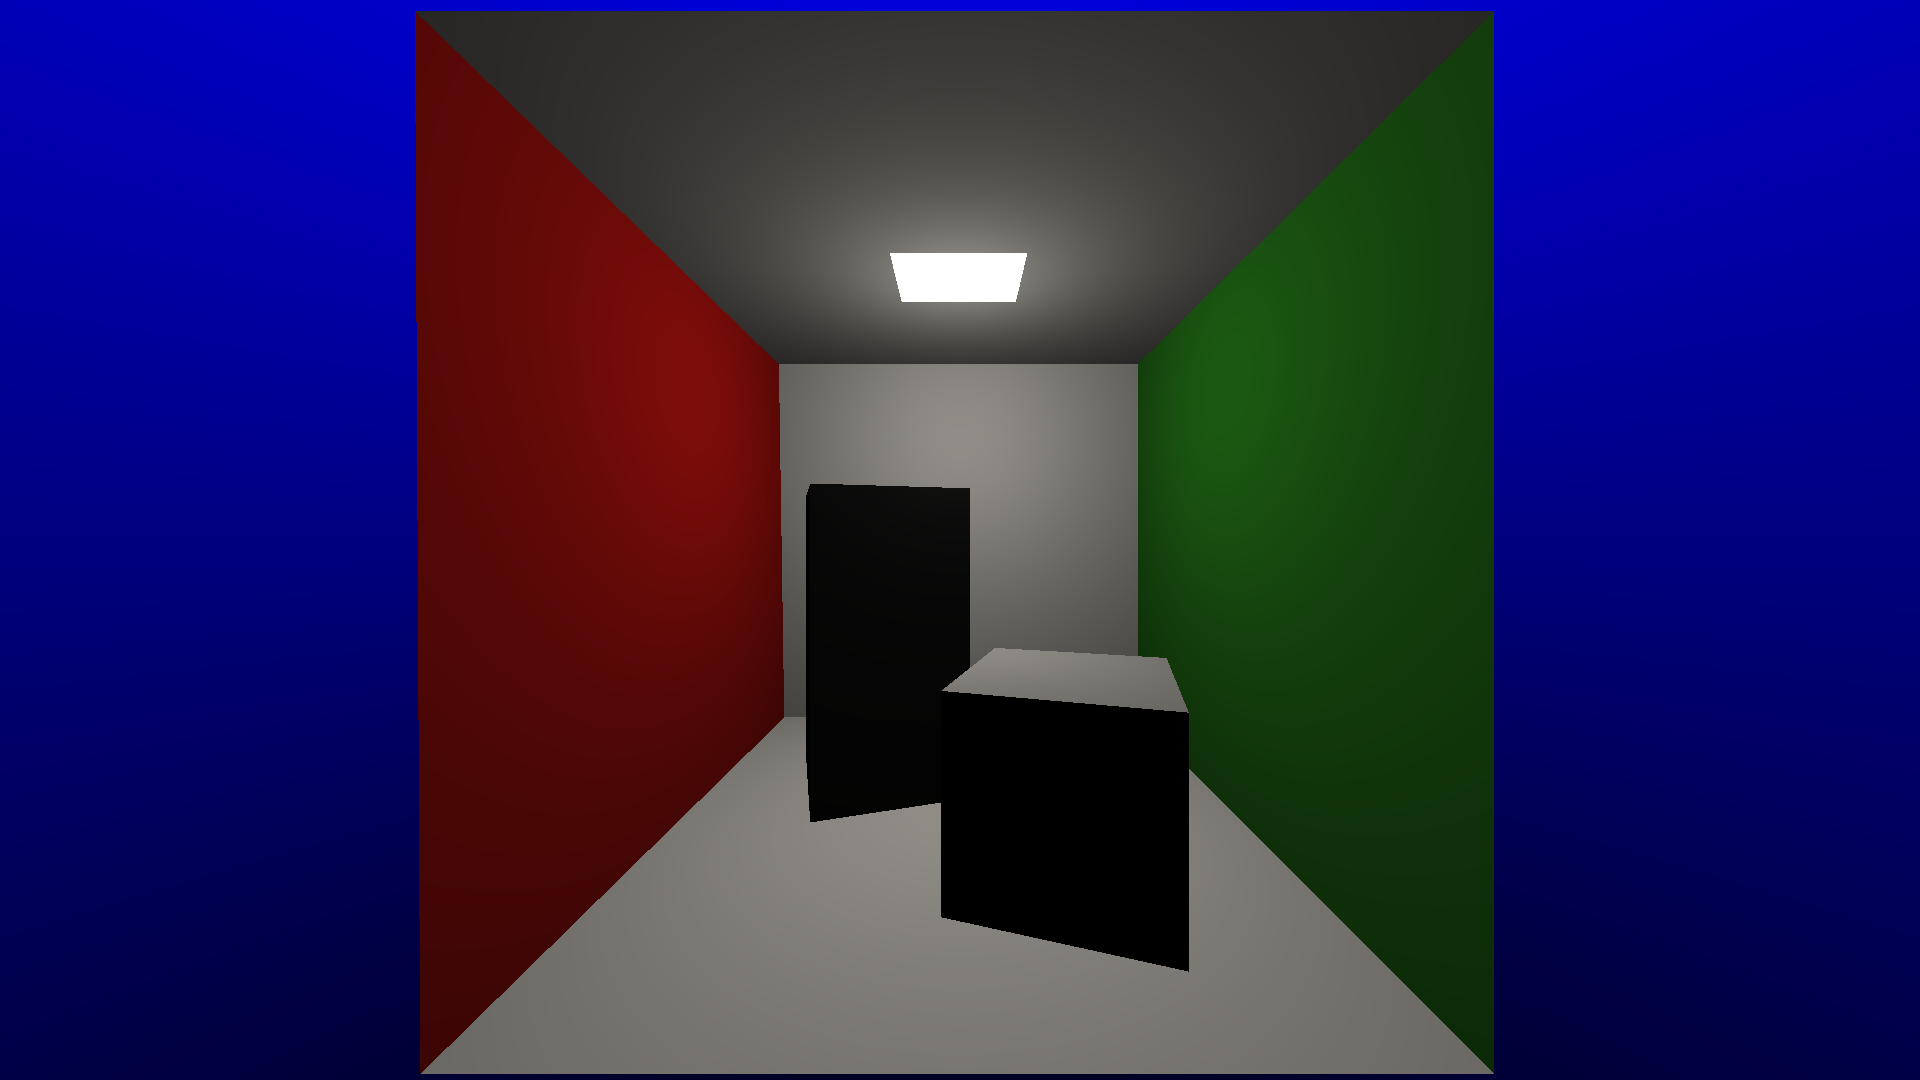
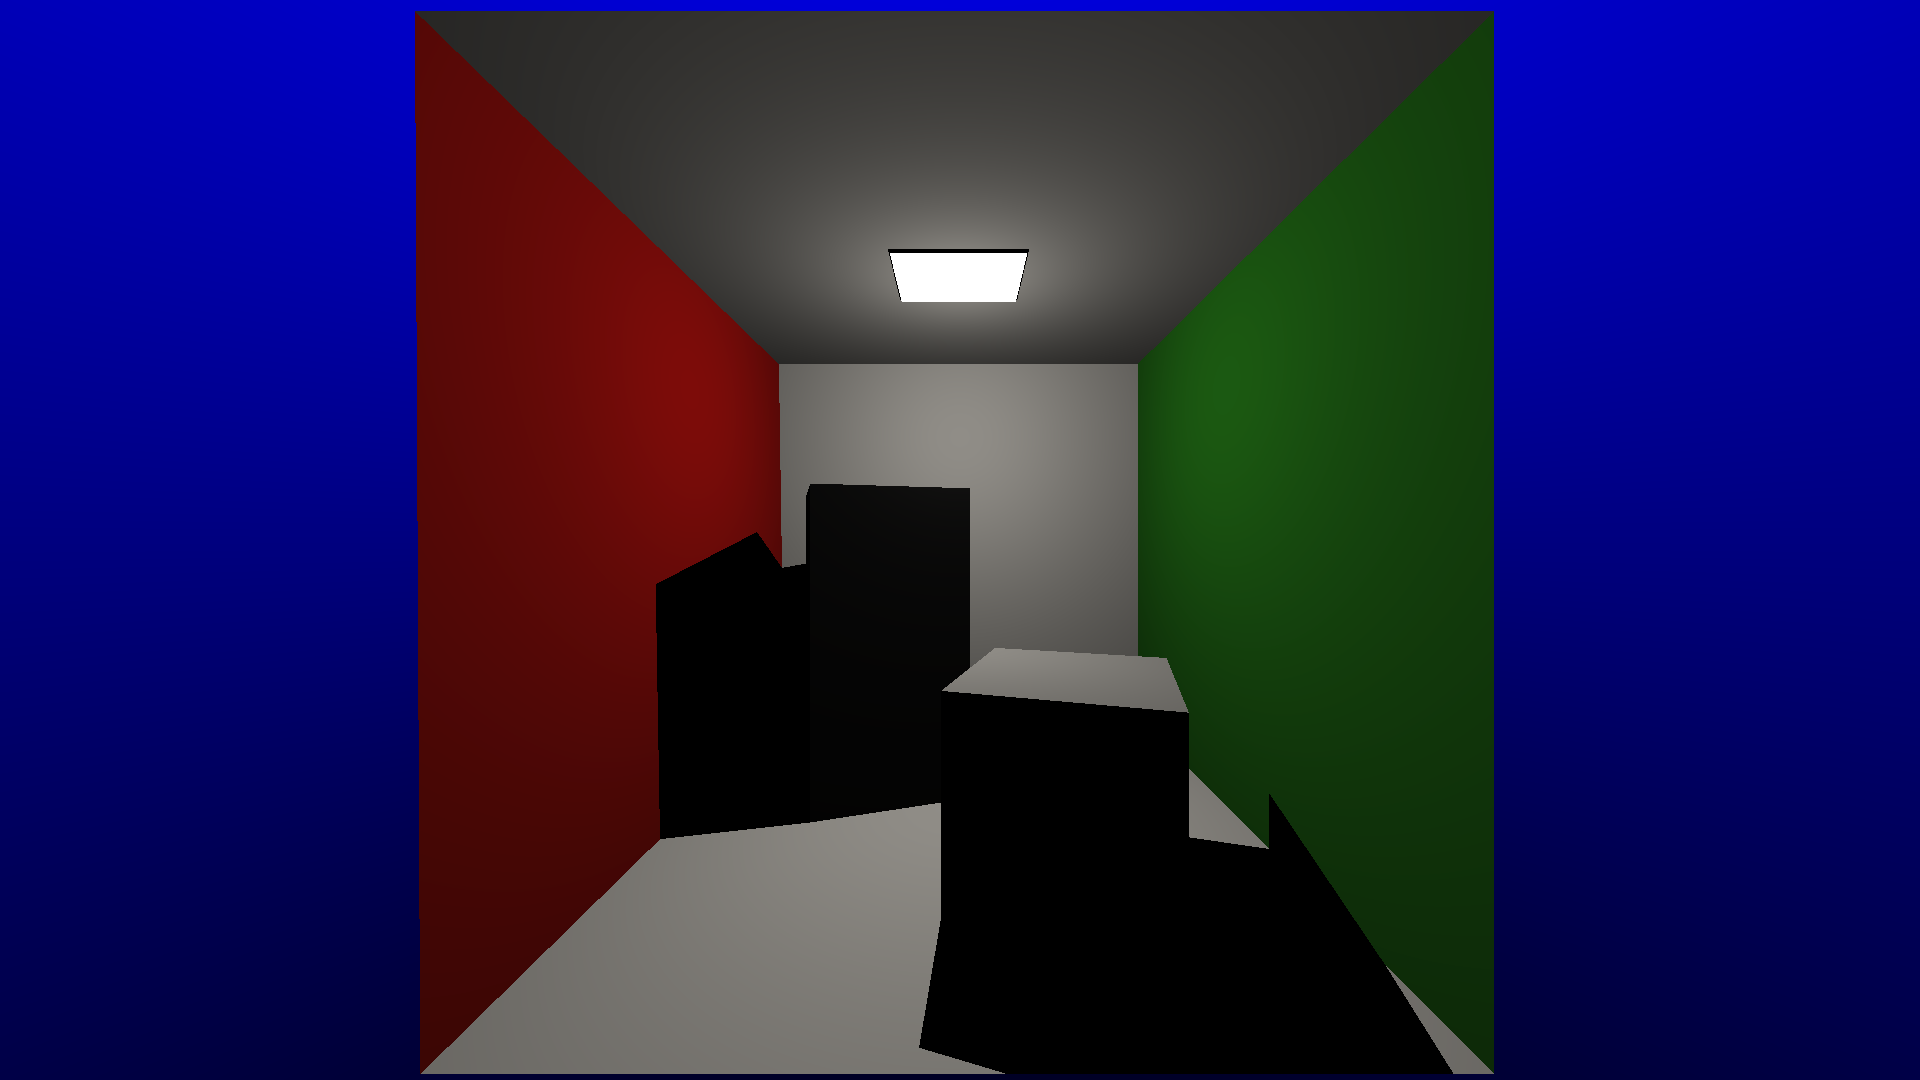
Lab 2.04. Adjust `trace_ray` method of `raytracer` to use `any_hit_shader` // SHADOWS

Changed region(s): [[0.4688, 0.7333, 0.7812, 1.0], [0.3438, 0.4889, 0.4375, 0.7944], [0.4688, 0.2139, 0.5312, 0.2444]]

diff --git a/src/renderer/raytracer/raytracer_renderer.cpp b/src/renderer/raytracer/raytracer_renderer.cpp
@@ -36,6 +36,8 @@ void cg::renderer::ray_tracing_renderer::init()
 			float3 {0.78f, 0.78f, 0.78f}});
 
 	shadow_raytracer = std::make_shared<cg::renderer::raytracer<cg::vertex, cg::unsigned_color>>();
+	shadow_raytracer ->set_vertex_buffers(model ->get_vertex_buffers());
+	shadow_raytracer ->set_index_buffers(model ->get_index_buffers());
 }
 
 void cg::renderer::ray_tracing_renderer::destroy() {}
@@ -64,7 +66,11 @@ void cg::renderer::ray_tracing_renderer::render()
 		for (auto& light: lights)
 		{
 			cg::renderer::ray to_light(position, light.position - position);
-			result_color += triangle.diffuse*light.color*std::max(dot(normal, to_light.direction), 0.f);
+			auto shadow_payload = shadow_raytracer ->trace_ray(to_light,
+															   1,
+															   length(light.position - position));
+			if (shadow_payload.t<0.f)
+				result_color += triangle.diffuse*light.color*std::max(dot(normal, to_light.direction), 0.f);
 		}
 
 		payload.color = cg::color::from_float3(result_color);
@@ -73,6 +79,7 @@ void cg::renderer::ray_tracing_renderer::render()
 
 	raytracer ->build_acceleration_structure();
 
+
 	shadow_raytracer ->miss_shader = [](const ray& ray){
 		payload payload{};
 		payload.t = -1.f;
@@ -80,10 +87,12 @@ void cg::renderer::ray_tracing_renderer::render()
 	};
 
 	shadow_raytracer ->any_hit_shader = [](const ray& ray,
-										   payload& payload,
-										   const triangle<cg::vertex>& triangle){
+										  payload& payload,
+										  const triangle<cg::vertex>& triangle){
 		return payload;
 	};
+	
+	shadow_raytracer ->build_acceleration_structure();
 
 	auto start = std::chrono::high_resolution_clock::now();
 	raytracer ->ray_generation(camera ->get_position(),
@@ -99,7 +108,6 @@ void cg::renderer::ray_tracing_renderer::render()
 
 	cg:utils::save_resource(*render_target, settings ->result_path);
 
-	// TODO: Lab 2.04. Define any_hit_shader and miss_shader for shadow_raytracer
 	// TODO: Lab 2.04. Adjust closest_hit_shader of raytracer to cast shadows rays and to ignore occluded lights
 	// TODO: Lab 2.05. Adjust ray_tracing_renderer class to build the acceleration structure
 }

diff --git a/src/renderer/raytracer/raytracer.h b/src/renderer/raytracer/raytracer.h
@@ -220,13 +220,16 @@ namespace cg::renderer
 		closest_hit_payload.t = max_t;
 		const triangle<VB>* closest_triangle = nullptr;
 
-		for (auto& triange: triangles)
+		for (auto& triangle: triangles)
 		{
-			payload payload = intersection_shader(triange, ray);
+			payload payload = intersection_shader(triangle, ray);
 			if (payload.t>min_t && payload.t<closest_hit_payload.t)
 			{
 				closest_hit_payload = payload;
-				closest_triangle = &triange;
+				closest_triangle = &triangle;
+
+				if (any_hit_shader)
+					return any_hit_shader(ray, payload, triangle);
 			}
 		}
 
@@ -241,7 +244,6 @@ namespace cg::renderer
 
 		return miss_shader(ray);
 
-		// TODO: Lab 2.04. Adjust `trace_ray` method of `raytracer` to use `any_hit_shader`
 		// TODO: Lab 2.05. Adjust trace_ray method of raytracer class to traverse the acceleration structure
 	}
 
